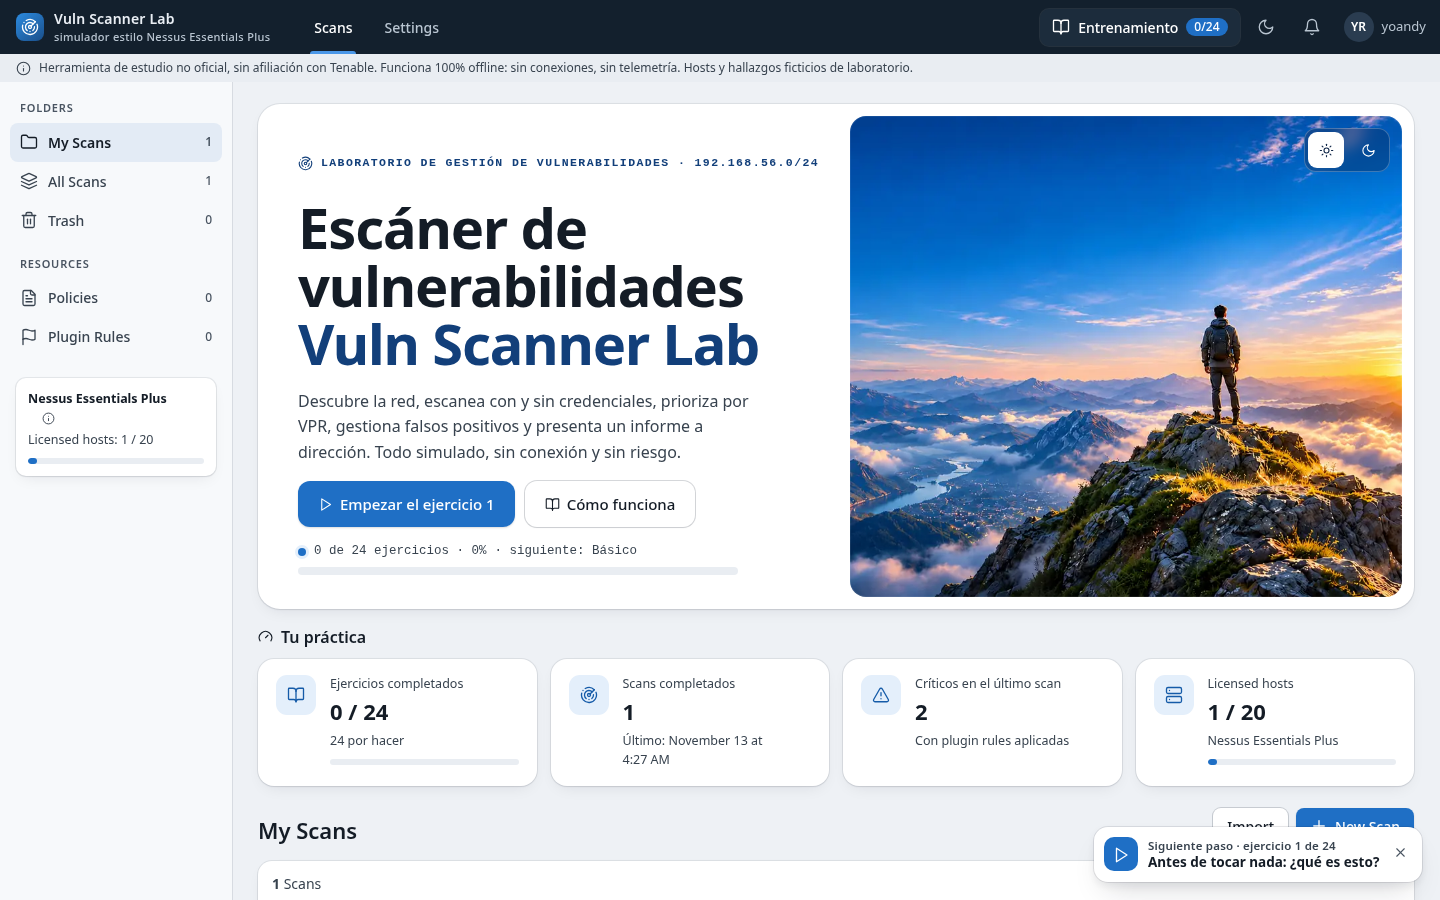
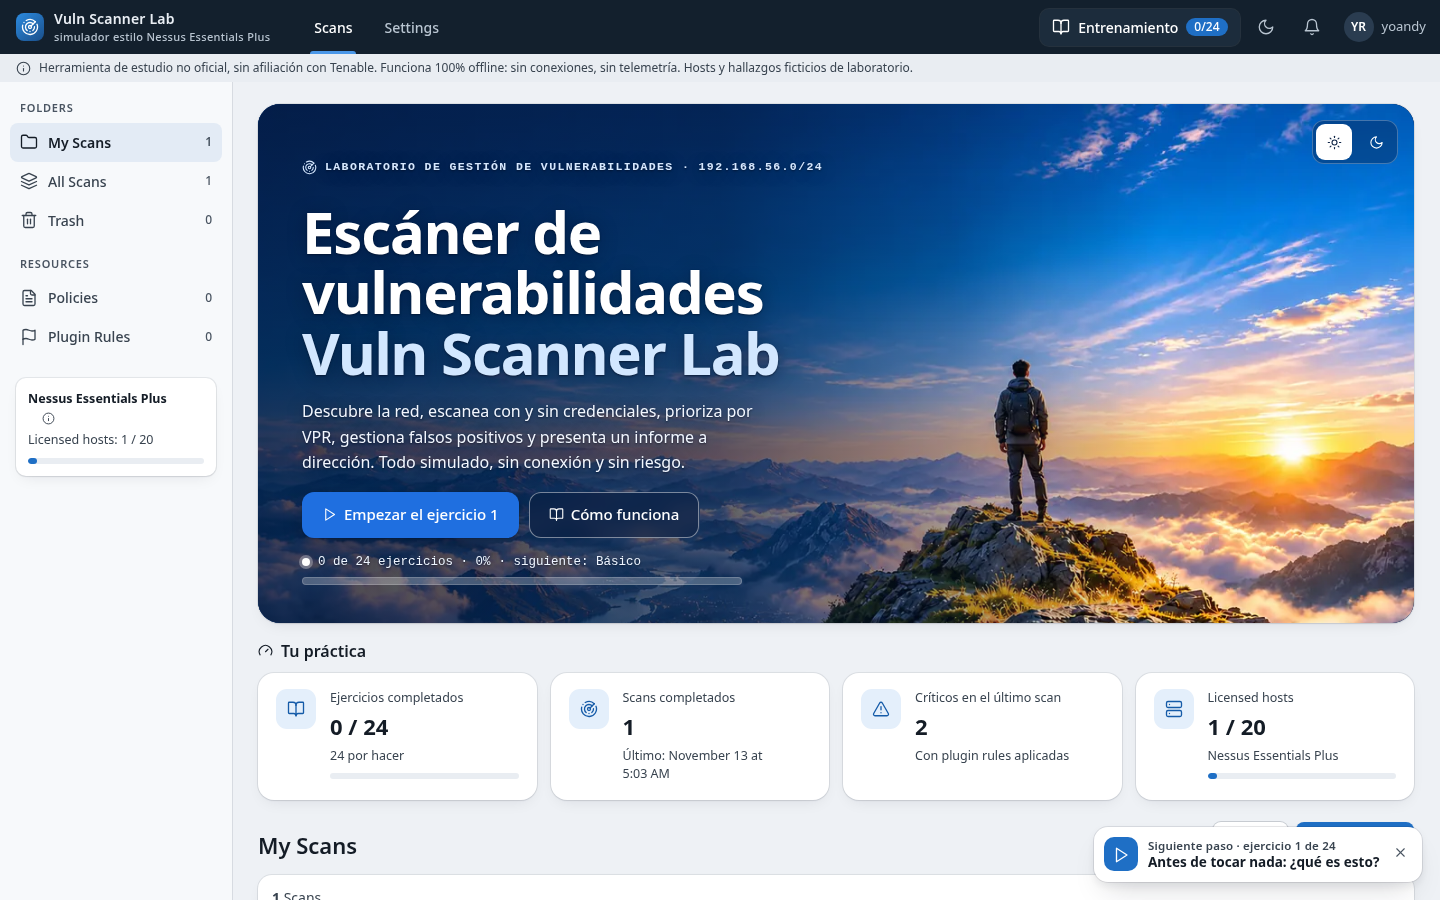
Hero con la imagen a sangre y el texto encima a la izquierda
La imagen cubre toda la portada y el texto va sobre el cielo, en blanco y con sombra suave. Para leerlo bien solo hay un degradado azul oscuro y transparente en el borde izquierdo (en móvil, abajo), nunca blanco. Se ve igual en claro y oscuro; botón principal sólido y secundario translúcido; la barra de progreso tiene la pista translúcida.

diff --git a/index.html b/index.html
@@ -300,27 +300,33 @@ details.hint summary{cursor:pointer;font-weight:600}
  .btn:active,.tcard:active,.coach:active,.ex:active,.trainbtn:active,.iconbtn:active,.side button:active{transform:none!important}
 }
 /* ===== Hero (portada) ===== */
-/* Como en Blue-Jr: texto a la izquierda sobre la tarjeta y la imagen entera y limpia a la derecha, sin velos ni fundidos */
-.hero{--ha:#123f7a;position:relative;overflow:hidden;border-radius:22px;background:var(--surface);box-shadow:var(--ring);min-height:420px;display:grid;grid-template-columns:minmax(0,1.05fr) minmax(0,1fr);isolation:isolate;margin-bottom:18px}
-[data-theme=dark] .hero{--ha:#a9d1fa}
-.hero-art{grid-column:2;grid-row:1;margin:12px 12px 12px 0;border-radius:16px;min-height:240px;background:var(--surface-3) 64% center/cover no-repeat;box-shadow:inset 0 0 0 1px rgba(255,255,255,.08)}
-.hero-txt{grid-column:1;grid-row:1;padding:40px 28px 34px 40px;display:flex;flex-direction:column;justify-content:center;gap:16px;max-width:620px}
-.hero .eyebrow{display:flex;align-items:center;gap:8px;font:600 11.5px/1.2 var(--mono);letter-spacing:1.4px;text-transform:uppercase;color:var(--ha)}
-.hero h1{font-size:clamp(34px,4.2vw,56px);line-height:1.04;letter-spacing:-.02em;font-weight:700;margin:0}
-.hero h1 .l2{display:block;color:var(--ha)}
+/* Imagen a sangre en toda la portada y el texto encima, a la izquierda, sobre el cielo.
+   Sin velos blancos: solo un degradado azul oscuro y transparente en el borde izquierdo. Igual en claro y oscuro. */
+.hero{position:relative;overflow:hidden;border-radius:22px;background:#0d2a5c;box-shadow:var(--ring);min-height:460px;display:grid;grid-template-columns:minmax(0,1.1fr) minmax(0,1fr);isolation:isolate;margin-bottom:18px;color:#fff}
+.hero-art{position:absolute;inset:0;z-index:-2;background:#0d2a5c 64% 0%/cover no-repeat}
+.hero-art::after{content:"";position:absolute;inset:0;background:linear-gradient(90deg,rgba(5,20,50,.72) 0%,rgba(5,20,50,.64) 40%,rgba(5,20,50,.36) 60%,rgba(5,20,50,0) 78%)}
+.hero-txt{padding:44px 12px 38px 44px;display:flex;flex-direction:column;justify-content:center;gap:16px;max-width:620px;text-shadow:0 1px 2px rgba(3,12,32,.6),0 2px 18px rgba(3,12,32,.35)}
+.hero .eyebrow{display:flex;align-items:center;gap:8px;font:600 11.5px/1.2 var(--mono);letter-spacing:1.4px;text-transform:uppercase;color:#d6e8ff}
+.hero h1{font-size:clamp(34px,4.6vw,58px);line-height:1.04;letter-spacing:-.02em;font-weight:700;margin:0;color:#fff}
+.hero h1 .l2{display:block;color:#d2e7ff}
 .hero h1 .w{display:inline-block;overflow:hidden;vertical-align:bottom;padding-bottom:.06em}
 .hero h1 .w>span{display:inline-block;animation:heroWord .6s cubic-bezier(.2,0,0,1) both;animation-delay:calc(var(--i)*70ms)}
 @keyframes heroWord{from{transform:translateY(105%);opacity:0}to{transform:none;opacity:1}}
-.hero .lead{font-size:16px;line-height:1.6;color:var(--text-2);margin:0;max-width:52ch;text-wrap:pretty}
-.hero .lead b{color:var(--text)}
-.hero-cta{display:flex;gap:10px;flex-wrap:wrap}
+.hero .lead{font-size:16px;line-height:1.6;color:#f2f7ff;margin:0;max-width:52ch;text-wrap:pretty}
+.hero .lead b{color:#fff}
+.hero-cta{display:flex;gap:10px;flex-wrap:wrap;text-shadow:none}
+.hero-cta .btn.primary{background:#1f6fe0;color:#fff;box-shadow:0 1px 2px rgba(3,12,32,.3),0 6px 18px rgba(3,12,32,.25)}
+.hero-cta .btn.primary:hover{background:#2b7bf0}
+.hero-cta .btn:not(.primary){background:rgba(8,24,58,.42);color:#fff;border:0;box-shadow:inset 0 0 0 1px rgba(255,255,255,.45);backdrop-filter:blur(10px);-webkit-backdrop-filter:blur(10px)}
+.hero-cta .btn:not(.primary):hover{background:rgba(8,24,58,.58)}
 .btn.lg{min-height:46px;padding:11px 20px;font-size:15px;border-radius:12px}
 .hero-prog{display:grid;gap:7px;max-width:440px}
-.hero-prog .row{display:flex;flex-wrap:wrap;align-items:center;gap:4px 8px;font:500 12.5px/1.3 var(--mono);color:var(--text-2)}
+.hero-prog .row{display:flex;flex-wrap:wrap;align-items:center;gap:4px 8px;font:500 12.5px/1.3 var(--mono);color:#eef5ff}
 .hero-prog .row>span{white-space:nowrap}
-.hero-prog .dot{width:8px;height:8px;border-radius:50%;background:var(--primary);box-shadow:0 0 0 3px var(--primary-soft)}
-.hero-prog .meter{margin:0;height:8px}
-.hero-tools{position:absolute;top:24px;right:24px;display:flex;gap:6px;padding:4px;border-radius:12px;background:rgba(8,24,60,.3);box-shadow:inset 0 0 0 1px rgba(255,255,255,.24);backdrop-filter:blur(8px)}
+.hero-prog .dot{width:8px;height:8px;border-radius:50%;background:#fff;box-shadow:0 0 0 3px rgba(255,255,255,.3)}
+.hero-prog .meter{margin:0;height:8px;background:rgba(255,255,255,.26);box-shadow:inset 0 0 0 1px rgba(255,255,255,.18)}
+.hero-prog .meter i{background:#fff}
+.hero-tools{position:absolute;top:16px;right:16px;display:flex;gap:6px;padding:4px;border-radius:12px;background:rgba(8,24,58,.34);box-shadow:inset 0 0 0 1px rgba(255,255,255,.26);backdrop-filter:blur(8px);-webkit-backdrop-filter:blur(8px)}
 .hero-tools button{width:36px;height:36px;border:0;border-radius:9px;background:none;color:#fff;display:grid;place-items:center;cursor:pointer;transition:background-color .15s,color .15s}
 .hero-tools button:hover{background:rgba(255,255,255,.16)}
 .hero-tools button[aria-pressed=true]{background:#fff;color:#0f2547}
@@ -334,11 +340,11 @@ details.hint summary{cursor:pointer;font-weight:600}
 .sec-t{display:flex;align-items:center;gap:8px;font-size:16px;margin:0 0 12px}
 @media (max-width:1100px){.hstats{grid-template-columns:repeat(2,minmax(0,1fr))}}
 @media (max-width:760px){
- /* Móvil: imagen entera arriba y el texto debajo, sin fundidos */
- .hero{grid-template-columns:1fr;min-height:0}
- .hero-art{grid-column:1;grid-row:1;margin:10px 10px 0;aspect-ratio:16/9;min-height:0;border-radius:14px;background-position:60% center}
- .hero-txt{grid-row:2;padding:18px 20px 24px;max-width:none}
- .hero-tools{top:20px;right:20px}
+ /* Móvil: la imagen arriba, detrás del texto, y se funde hacia abajo en azul oscuro (sin blanco) */
+ .hero{grid-template-columns:1fr;min-height:0;align-items:end}
+ .hero-art{inset:0 0 auto 0;height:420px;background-position:64% center;-webkit-mask-image:linear-gradient(180deg,#000 58%,transparent 100%);mask-image:linear-gradient(180deg,#000 58%,transparent 100%)}
+ .hero-art::after{background:linear-gradient(180deg,rgba(5,20,50,0) 45%,rgba(5,20,50,.55) 75%,rgba(5,20,50,.8) 100%)}
+ .hero-txt{padding:290px 20px 24px;max-width:none}
  .hero .lead{font-size:15px}
  .hero-cta .btn{flex:1 1 auto;justify-content:center}
  .hstats{grid-template-columns:1fr 1fr;gap:10px}

diff --git a/hero/hero.css b/hero/hero.css
@@ -1,25 +1,31 @@
 /* ===== Hero (portada) ===== */
-/* Como en Blue-Jr: texto a la izquierda sobre la tarjeta y la imagen entera y limpia a la derecha, sin velos ni fundidos */
-.hero{--ha:#123f7a;position:relative;overflow:hidden;border-radius:22px;background:var(--surface);box-shadow:var(--ring);min-height:420px;display:grid;grid-template-columns:minmax(0,1.05fr) minmax(0,1fr);isolation:isolate;margin-bottom:18px}
-[data-theme=dark] .hero{--ha:#a9d1fa}
-.hero-art{grid-column:2;grid-row:1;margin:12px 12px 12px 0;border-radius:16px;min-height:240px;background:var(--surface-3) 64% center/cover no-repeat;box-shadow:inset 0 0 0 1px rgba(255,255,255,.08)}
-.hero-txt{grid-column:1;grid-row:1;padding:40px 28px 34px 40px;display:flex;flex-direction:column;justify-content:center;gap:16px;max-width:620px}
-.hero .eyebrow{display:flex;align-items:center;gap:8px;font:600 11.5px/1.2 var(--mono);letter-spacing:1.4px;text-transform:uppercase;color:var(--ha)}
-.hero h1{font-size:clamp(34px,4.2vw,56px);line-height:1.04;letter-spacing:-.02em;font-weight:700;margin:0}
-.hero h1 .l2{display:block;color:var(--ha)}
+/* Imagen a sangre en toda la portada y el texto encima, a la izquierda, sobre el cielo.
+   Sin velos blancos: solo un degradado azul oscuro y transparente en el borde izquierdo. Igual en claro y oscuro. */
+.hero{position:relative;overflow:hidden;border-radius:22px;background:#0d2a5c;box-shadow:var(--ring);min-height:460px;display:grid;grid-template-columns:minmax(0,1.1fr) minmax(0,1fr);isolation:isolate;margin-bottom:18px;color:#fff}
+.hero-art{position:absolute;inset:0;z-index:-2;background:#0d2a5c 64% 0%/cover no-repeat}
+.hero-art::after{content:"";position:absolute;inset:0;background:linear-gradient(90deg,rgba(5,20,50,.72) 0%,rgba(5,20,50,.64) 40%,rgba(5,20,50,.36) 60%,rgba(5,20,50,0) 78%)}
+.hero-txt{padding:44px 12px 38px 44px;display:flex;flex-direction:column;justify-content:center;gap:16px;max-width:620px;text-shadow:0 1px 2px rgba(3,12,32,.6),0 2px 18px rgba(3,12,32,.35)}
+.hero .eyebrow{display:flex;align-items:center;gap:8px;font:600 11.5px/1.2 var(--mono);letter-spacing:1.4px;text-transform:uppercase;color:#d6e8ff}
+.hero h1{font-size:clamp(34px,4.6vw,58px);line-height:1.04;letter-spacing:-.02em;font-weight:700;margin:0;color:#fff}
+.hero h1 .l2{display:block;color:#d2e7ff}
 .hero h1 .w{display:inline-block;overflow:hidden;vertical-align:bottom;padding-bottom:.06em}
 .hero h1 .w>span{display:inline-block;animation:heroWord .6s cubic-bezier(.2,0,0,1) both;animation-delay:calc(var(--i)*70ms)}
 @keyframes heroWord{from{transform:translateY(105%);opacity:0}to{transform:none;opacity:1}}
-.hero .lead{font-size:16px;line-height:1.6;color:var(--text-2);margin:0;max-width:52ch;text-wrap:pretty}
-.hero .lead b{color:var(--text)}
-.hero-cta{display:flex;gap:10px;flex-wrap:wrap}
+.hero .lead{font-size:16px;line-height:1.6;color:#f2f7ff;margin:0;max-width:52ch;text-wrap:pretty}
+.hero .lead b{color:#fff}
+.hero-cta{display:flex;gap:10px;flex-wrap:wrap;text-shadow:none}
+.hero-cta .btn.primary{background:#1f6fe0;color:#fff;box-shadow:0 1px 2px rgba(3,12,32,.3),0 6px 18px rgba(3,12,32,.25)}
+.hero-cta .btn.primary:hover{background:#2b7bf0}
+.hero-cta .btn:not(.primary){background:rgba(8,24,58,.42);color:#fff;border:0;box-shadow:inset 0 0 0 1px rgba(255,255,255,.45);backdrop-filter:blur(10px);-webkit-backdrop-filter:blur(10px)}
+.hero-cta .btn:not(.primary):hover{background:rgba(8,24,58,.58)}
 .btn.lg{min-height:46px;padding:11px 20px;font-size:15px;border-radius:12px}
 .hero-prog{display:grid;gap:7px;max-width:440px}
-.hero-prog .row{display:flex;flex-wrap:wrap;align-items:center;gap:4px 8px;font:500 12.5px/1.3 var(--mono);color:var(--text-2)}
+.hero-prog .row{display:flex;flex-wrap:wrap;align-items:center;gap:4px 8px;font:500 12.5px/1.3 var(--mono);color:#eef5ff}
 .hero-prog .row>span{white-space:nowrap}
-.hero-prog .dot{width:8px;height:8px;border-radius:50%;background:var(--primary);box-shadow:0 0 0 3px var(--primary-soft)}
-.hero-prog .meter{margin:0;height:8px}
-.hero-tools{position:absolute;top:24px;right:24px;display:flex;gap:6px;padding:4px;border-radius:12px;background:rgba(8,24,60,.3);box-shadow:inset 0 0 0 1px rgba(255,255,255,.24);backdrop-filter:blur(8px)}
+.hero-prog .dot{width:8px;height:8px;border-radius:50%;background:#fff;box-shadow:0 0 0 3px rgba(255,255,255,.3)}
+.hero-prog .meter{margin:0;height:8px;background:rgba(255,255,255,.26);box-shadow:inset 0 0 0 1px rgba(255,255,255,.18)}
+.hero-prog .meter i{background:#fff}
+.hero-tools{position:absolute;top:16px;right:16px;display:flex;gap:6px;padding:4px;border-radius:12px;background:rgba(8,24,58,.34);box-shadow:inset 0 0 0 1px rgba(255,255,255,.26);backdrop-filter:blur(8px);-webkit-backdrop-filter:blur(8px)}
 .hero-tools button{width:36px;height:36px;border:0;border-radius:9px;background:none;color:#fff;display:grid;place-items:center;cursor:pointer;transition:background-color .15s,color .15s}
 .hero-tools button:hover{background:rgba(255,255,255,.16)}
 .hero-tools button[aria-pressed=true]{background:#fff;color:#0f2547}
@@ -33,11 +39,11 @@
 .sec-t{display:flex;align-items:center;gap:8px;font-size:16px;margin:0 0 12px}
 @media (max-width:1100px){.hstats{grid-template-columns:repeat(2,minmax(0,1fr))}}
 @media (max-width:760px){
- /* Móvil: imagen entera arriba y el texto debajo, sin fundidos */
- .hero{grid-template-columns:1fr;min-height:0}
- .hero-art{grid-column:1;grid-row:1;margin:10px 10px 0;aspect-ratio:16/9;min-height:0;border-radius:14px;background-position:60% center}
- .hero-txt{grid-row:2;padding:18px 20px 24px;max-width:none}
- .hero-tools{top:20px;right:20px}
+ /* Móvil: la imagen arriba, detrás del texto, y se funde hacia abajo en azul oscuro (sin blanco) */
+ .hero{grid-template-columns:1fr;min-height:0;align-items:end}
+ .hero-art{inset:0 0 auto 0;height:420px;background-position:64% center;-webkit-mask-image:linear-gradient(180deg,#000 58%,transparent 100%);mask-image:linear-gradient(180deg,#000 58%,transparent 100%)}
+ .hero-art::after{background:linear-gradient(180deg,rgba(5,20,50,0) 45%,rgba(5,20,50,.55) 75%,rgba(5,20,50,.8) 100%)}
+ .hero-txt{padding:290px 20px 24px;max-width:none}
  .hero .lead{font-size:15px}
  .hero-cta .btn{flex:1 1 auto;justify-content:center}
  .hstats{grid-template-columns:1fr 1fr;gap:10px}
